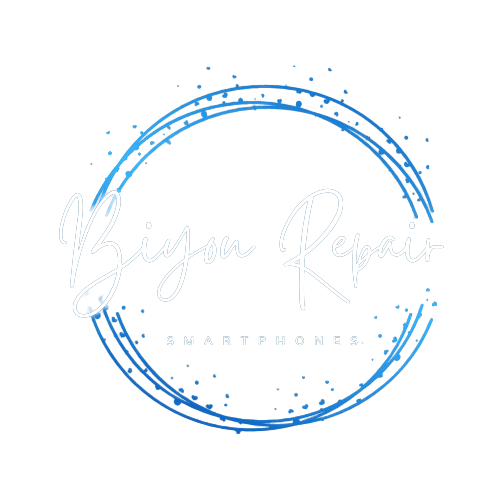
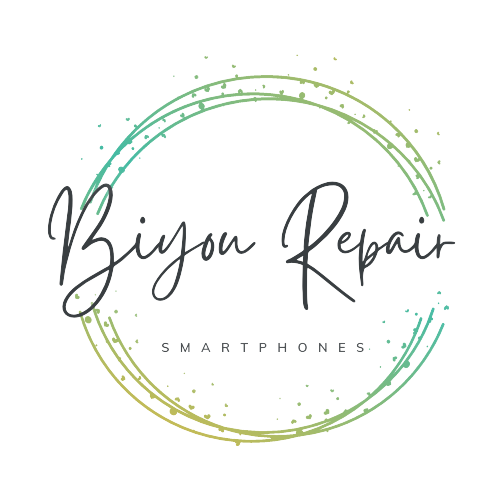
changed color palette

diff --git a/screens/HomeScreen.tsx b/screens/HomeScreen.tsx
@@ -50,67 +50,54 @@ export default function HomeScreen() {
   };
 
   return (
-    <>
-      <LinearGradient
-        colors={[Colors.black, Colors.darkBlue, Colors.white, Colors.yellow]}
-        start={{ x: 0.1, y: 0.1 }}
-        end={{ x: 0.9, y: 0.9 }}
-        style={{
-          position: "absolute",
-          top: 0,
-          left: 0,
-          width: Dimensions.get("window").width,
-          height: Dimensions.get("window").height,
-        }}
+    <View style={styles.container}>
+      <Image
+        source={require("../assets/images/adaptive-icon.png")}
+        style={{ height: 250, width: 250 }}
       />
-      <View style={styles.container}>
-        <Image
-          source={require("../assets/images/adaptive-icon.png")}
-          style={{ height: 250, width: 250 }}
+      <View style={styles.searchBar}>
+        {error.length > 1 && <Text style={styles.error}>{error}</Text>}
+        <BiyouTextInput
+          placeholder="numéro de bon - exemple: 22A008"
+          value={id}
+          setValue={setId}
+          condition={error.length > 0 && !id}
         />
-        <View style={styles.searchBar}>
-          {error.length > 1 && <Text style={styles.error}>{error}</Text>}
-          <BiyouTextInput
-            placeholder="numéro de bon - exemple: 22A008"
-            value={id}
-            setValue={setId}
-            condition={error.length > 0 && !id}
-          />
-          <BiyouTextInput
-            placeholder="nom sur le bon - exemple: Mohamed Mohamed"
-            value={name}
-            setValue={setName}
-            condition={error.length > 0 && !name}
-          />
-          <View style={styles.buttoncontainer}>
-            <View
-              style={{
-                display: "flex",
-                justifyContent: "center",
-                alignItems: "center",
-                marginHorizontal: "auto",
-                marginVertical: 4,
-                height: 50,
-                width: 50,
-                borderRadius: 50,
-                backgroundColor: Colors.lightBlue,
-              }}
-            >
-              <TouchableOpacity onPress={submitHandler}>
-                <FontAwesome size={30} name="search" color={Colors.white} />
-              </TouchableOpacity>
-            </View>
+        <BiyouTextInput
+          placeholder="nom sur le bon - exemple: Mohamed Mohamed"
+          value={name}
+          setValue={setName}
+          condition={error.length > 0 && !name}
+        />
+        <View style={styles.buttoncontainer}>
+          <View
+            style={{
+              display: "flex",
+              justifyContent: "center",
+              alignItems: "center",
+              marginHorizontal: "auto",
+              marginVertical: 4,
+              height: 50,
+              width: 50,
+              borderRadius: 50,
+              // backgroundColor: Colors.lightBlue,
+              backgroundColor: Colors.green,
+            }}
+          >
+            <TouchableOpacity onPress={submitHandler}>
+              <FontAwesome size={30} name="search" color={Colors.white} />
+            </TouchableOpacity>
           </View>
         </View>
-        {openItemDetails && item && (
-          <ItemDetails
-            item={item}
-            openItemDetails={openItemDetails}
-            setOpenItemDetails={setOpenItemDetails}
-          />
-        )}
       </View>
-    </>
+      {openItemDetails && item && (
+        <ItemDetails
+          item={item}
+          openItemDetails={openItemDetails}
+          setOpenItemDetails={setOpenItemDetails}
+        />
+      )}
+    </View>
   );
 }
 
@@ -121,7 +108,7 @@ const styles = StyleSheet.create({
     flex: 1,
     alignItems: "center",
     paddingTop: 20,
-    backgroundColor: "transparent",
+    // backgroundColor: Colors.white,
   },
   title: {
     fontSize: 35,

diff --git a/screens/AccountScreen.tsx b/screens/AccountScreen.tsx
@@ -74,7 +74,8 @@ export default function AccountScreen() {
       )}
       {user && (
         <SpeedDial
-          buttonStyle={{ backgroundColor: Colors.lightBlue }}
+          buttonStyle={{ backgroundColor: Colors.green }}
+          // buttonStyle={{ backgroundColor: Colors.lightBlue }}
           containerStyle={{ bottom: 80 }}
           isOpen={open}
           icon={{ name: "edit", color: Colors.white }}
@@ -85,7 +86,8 @@ export default function AccountScreen() {
         >
           <SpeedDial.Action
             style={{ bottom: 80 }}
-            buttonStyle={{ backgroundColor: Colors.lightBlue }}
+            buttonStyle={{ backgroundColor: Colors.green }}
+            // buttonStyle={{ backgroundColor: Colors.lightBlue }}
             icon={{ name: "add", color: Colors.white }}
             title="Ajouter un produit"
             titleStyle={{ position: "relative", bottom: 80 }}
@@ -96,7 +98,8 @@ export default function AccountScreen() {
           />
           <SpeedDial.Action
             style={{ bottom: 80 }}
-            buttonStyle={{ backgroundColor: Colors.lightBlue }}
+            buttonStyle={{ backgroundColor: Colors.green }}
+            // buttonStyle={{ backgroundColor: Colors.lightBlue }}
             icon={{ name: "edit", color: Colors.white }}
             title="Modifier votre profil"
             titleStyle={{ position: "relative", bottom: 80 }}

diff --git a/components/account/Profile.tsx b/components/account/Profile.tsx
@@ -1,5 +1,5 @@
 import { useEffect } from "react";
-import { Image, Platform } from "react-native";
+import { Dimensions, Image, Platform } from "react-native";
 import { useDispatch, useSelector } from "react-redux";
 import { getAuth, signOut } from "firebase/auth";
 import { doc, getFirestore, onSnapshot } from "firebase/firestore";
@@ -29,15 +29,25 @@ const Profile = () => {
   return (
     <>
       {user && (
-        <View>
+        <View style={{ paddingTop: 20 }}>
           <View
             style={{
+              position: "relative",
               marginVertical: 50,
               display: "flex",
               justifyContent: "center",
               alignItems: "center",
             }}
           >
+            <Image
+              style={{
+                position: "absolute",
+                right: Dimensions.get("window").width / 2 - 120,
+                height: 250,
+                width: 250,
+              }}
+              source={require("../../assets/images/ring.png")}
+            />
             {Platform.OS === "web" || !user.photoURL?.includes(".svg") ? (
               <Image
                 source={{

diff --git a/components/admin/ItemsList.tsx b/components/admin/ItemsList.tsx
@@ -53,18 +53,18 @@ const ItemsList = ({
             <View
               style={{
                 borderRadius: 10,
-                backgroundColor: Colors.black,
+                backgroundColor: Colors.gray,
                 width: Dimensions.get("window").width - 10,
                 marginHorizontal: "auto",
-                marginVertical: 5,
+                marginVertical: 8,
                 display: "flex",
                 flexDirection: "row",
                 paddingVertical: 10,
                 paddingHorizontal: 5,
                 shadowColor: Colors.black,
                 shadowOffset: { width: 0, height: 1 },
-                shadowOpacity: 0.4,
-                shadowRadius: 40,
+                shadowOpacity: 0.3,
+                shadowRadius: 10,
               }}
             >
               <View
@@ -125,6 +125,7 @@ const ItemsList = ({
                 <View
                   style={{
                     borderTopWidth: 1,
+                    borderTopColor: Colors.yellow,
                     flex: 1,
                     display: "flex",
                     flexDirection: "row",

diff --git a/components/admin/Search.tsx b/components/admin/Search.tsx
@@ -83,6 +83,11 @@ const SearchModal = ({
         results.push(doc.data());
       });
       setOpenSearchModal(false);
+      setClientName("");
+      setItemId("");
+      setModel("");
+      setSerialNumber("");
+      setStatus(StatusList[0]);
       setOpenList(true);
       setItems(results);
     }
@@ -121,15 +126,15 @@ const SearchModal = ({
           marginVertical: 4,
           padding: 10,
           borderRadius: 15,
-          backgroundColor: Colors.black,
-          borderColor: Colors.white,
+          backgroundColor: Colors.gray,
+          borderColor: Colors.black,
           borderWidth: 1,
         }}
       >
         {status ? (
-          <Text style={{ color: Colors.white }}>{status}</Text>
+          <Text style={{ color: Colors.black }}>{status}</Text>
         ) : (
-          <Text style={{ color: "#777" }}>Etat</Text>
+          <Text style={{ color: "#999" }}>Etat</Text>
         )}
       </Pressable>
       <BottomSheet isVisible={openStatusPicker}>

diff --git a/constants/Colors.ts b/constants/Colors.ts
@@ -1,17 +1,35 @@
+// export default {
+//   light: {
+//     text: "#F1F1E6",
+//     background: "#17567B",
+//   },
+//   dark: {
+//     text: "#F1F1E6",
+//     background: "#17567B",
+//   },
+//   black: "#0E131F",
+//   violet: "#38405F",
+//   darkBlue: "#17567B",
+//   lightBlue: "#00BAFF",
+//   red: "#FF0035",
+//   white: "#F1F1E6",
+//   yellow: "#E69C24",
+// };
+
 export default {
   light: {
-    text: "#F1F1E6",
-    background: "#17567B",
+    text: "#393E41",
+    background: "#E7E5DF",
   },
   dark: {
-    text: "#F1F1E6",
-    background: "#17567B",
+    text: "#393E41",
+    background: "#E7E5DF",
   },
-  black: "#0E131F",
+  black: "#393E41",
+  gray: "#D3D0CB",
+  green: "#44BBA4",
+  white: "#E7E5DF",
+  yellow: "#E7BB41",
   violet: "#38405F",
-  darkBlue: "#17567B",
-  lightBlue: "#00BAFF",
   red: "#FF0035",
-  white: "#F1F1E6",
-  yellow: "#E69C24",
 };

diff --git a/navigation/BottomTabNavigator.tsx b/navigation/BottomTabNavigator.tsx
@@ -56,7 +56,7 @@ function BottomTabNavigator() {
     <BottomTab.Navigator
       initialRouteName="Home"
       screenOptions={{
-        tabBarActiveTintColor: Colors.darkBlue,
+        tabBarActiveTintColor: Colors.black,
         tabBarActiveBackgroundColor: Colors.yellow,
         tabBarItemStyle: {
           borderRadius: 50,
@@ -68,7 +68,7 @@ function BottomTabNavigator() {
           bottom: 20,
           left: 15,
           right: 15,
-          backgroundColor: Colors.white,
+          backgroundColor: Colors.gray,
           borderRadius: 50,
           height: 60,
           ...styles.shadow,
@@ -145,9 +145,6 @@ const styles = StyleSheet.create({
   },
 });
 
-/**
- * You can explore the built-in icon families and icons on the web at https://icons.expo.fyi/
- */
 function TabBarIcon(props: {
   name: React.ComponentProps<typeof FontAwesome>["name"];
   color: string;

diff --git a/components/elements/TextInput.tsx b/components/elements/TextInput.tsx
@@ -21,20 +21,20 @@ const BiyouTextInput = ({
         style={{
           padding: 10,
           borderRadius: 15,
-          backgroundColor: Colors.black,
-          color: Colors.white,
+          backgroundColor: Colors.gray,
+          color: Colors.black,
           ...(condition
             ? {
                 borderColor: Colors.red,
                 borderWidth: 2,
               }
             : {
-                borderColor: Colors.white,
+                borderColor: Colors.black,
                 borderWidth: 1,
               }),
         }}
         placeholder={placeholder}
-        placeholderTextColor={"#777"}
+        placeholderTextColor={"#999"}
         value={value}
         onChangeText={(e) => setValue && setValue(e)}
       />

diff --git a/components/elements/Button.tsx b/components/elements/Button.tsx
@@ -54,8 +54,8 @@ const styles = StyleSheet.create({
     marginVertical: 4,
     marginHorizontal: "auto",
     minWidth: "50%",
-    backgroundColor: Colors.black,
-    borderColor: Colors.black,
+    backgroundColor: Colors.green,
+    borderColor: Colors.green,
     borderWidth: 1,
     borderStyle: "solid",
     borderRadius: 15,

diff --git a/components/account/Register.tsx b/components/account/Register.tsx
@@ -146,7 +146,8 @@ const Register = ({ setRegisterOpen }: any) => {
 
 const styles = StyleSheet.create({
   container: {
-    backgroundColor: Colors.darkBlue,
+    backgroundColor: Colors.black,
+    // backgroundColor: Colors.darkBlue,
     borderRadius: 25,
     display: "flex",
     padding: 20,

diff --git a/components/account/Login.tsx b/components/account/Login.tsx
@@ -122,7 +122,8 @@ const Login = ({ setRegisterOpen }: any) => {
 
 const styles = StyleSheet.create({
   container: {
-    backgroundColor: Colors.darkBlue,
+    // backgroundColor: Colors.darkBlue,
+    backgroundColor: Colors.black,
     borderRadius: 25,
     display: "flex",
     padding: 20,

diff --git a/screens/NotFoundScreen.tsx b/screens/NotFoundScreen.tsx
@@ -26,7 +26,7 @@ export default function NotFoundScreen({
 
 const styles = StyleSheet.create({
   container: {
-    backgroundColor: Colors.darkBlue,
+    // backgroundColor: Colors.darkBlue,
     flex: 1,
     alignItems: "center",
     justifyContent: "center",
